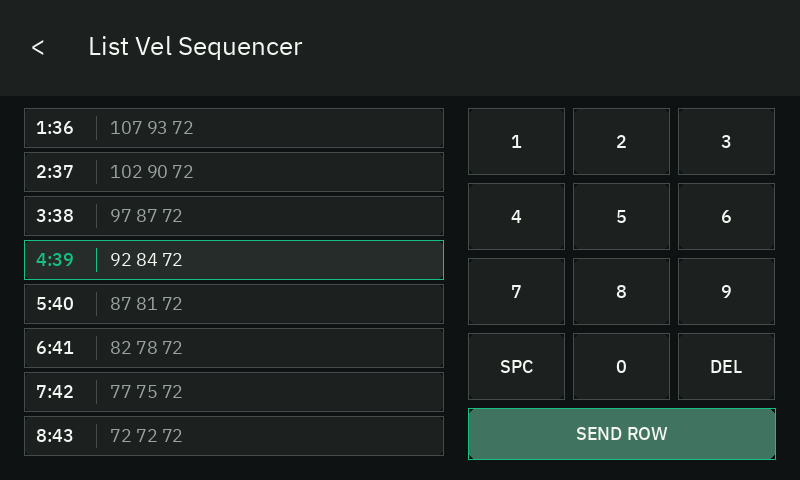
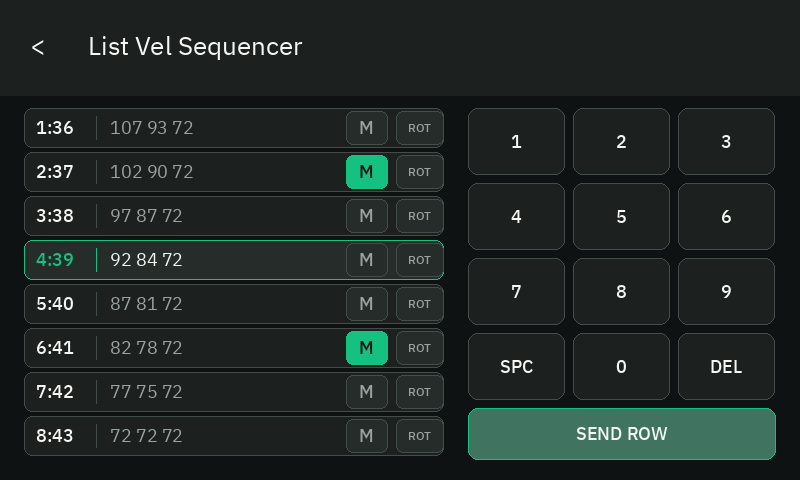
Add sequencer list rotation controls

diff --git a/tests/test_instance_surfaces.py b/tests/test_instance_surfaces.py
@@ -452,6 +452,30 @@ class InstanceSurfaceTests(unittest.TestCase):
         self.assertTrue(ui.apply_instance_state_update("7", steps_ack["path"], [0]))
         self.assertEqual(ui.state.surface_state["drafts"]["steps"], "1 1 01")
 
+    def test_list_sequencer_rotate_reads_current_list_then_moves_first_item_to_end(self):
+        ui = ShadowboxUI()
+        instance = _list_sequencer_instance()
+        ui.apply_runner_snapshot(_snapshot([instance]))
+        ui.state.ui_mode = "INSTANCE_MENU"
+        ui.state.instance_menu_cursor = 1
+        ui.handle_event(UIEvent("short_press"))
+        ui.pop_actions()
+        ui.state.surface_state["drafts"]["steps"] = "0 0 0"
+        ui.state.surface_state["dirty"]["steps"] = True
+
+        ui.handle_event(UIEvent("rotate_list_field", index=0))
+
+        read = next(action for action in ui.pop_actions() if action.kind == "send_osc")
+        self.assertEqual(read.path, "/rnbo/inst/7/messages/in/Steps")
+        self.assertEqual(read.value, [-999])
+        steps_ack = next(item for item in instance["state"] if item["name"] == "StepsAck")
+        self.assertTrue(ui.apply_instance_state_update("7", steps_ack["path"], [1, 0, 1]))
+        write = next(action for action in ui.pop_actions() if action.kind == "send_osc")
+        self.assertEqual(write.path, "/rnbo/inst/7/messages/in/Steps")
+        self.assertEqual(write.value, [0, 1, 1])
+        self.assertEqual(ui.state.surface_state["drafts"]["steps"], "0 1 1")
+        self.assertNotIn("steps", ui.state.surface_state["dirty"])
+
     def test_list_sequencer_surface_renders_seven_fields_and_twelve_keys(self):
         ui = ShadowboxUI()
         ui.apply_runner_snapshot(_snapshot([_list_sequencer_instance()]))
@@ -466,9 +490,12 @@ class InstanceSurfaceTests(unittest.TestCase):
         fields = [target for target in renderer.touch_layout.targets if target.kind == "list_field"]
         keys = [target for target in renderer.touch_layout.targets if target.kind == "list_key"]
         sends = [target for target in renderer.touch_layout.targets if target.kind == "list_send"]
+        rotates = [target for target in renderer.touch_layout.targets if target.kind == "list_rotate"]
         self.assertEqual(len(fields), 7)
         self.assertEqual(len(keys), 12)
         self.assertEqual(len(sends), 1)
+        self.assertEqual(len(rotates), 7)
+        self.assertTrue(all(target.label == "ROT" for target in rotates))
         self.assertEqual([target.label for target in fields], [
             "Stp",
             "Stp2",
@@ -538,6 +565,26 @@ class InstanceSurfaceTests(unittest.TestCase):
         self.assertEqual(write.path, "/rnbo/inst/7/messages/in/3row")
         self.assertEqual(write.value, [24, 48, 96])
 
+    def test_list_vel_sequencer_rotate_reads_and_sends_selected_row(self):
+        ui = ShadowboxUI()
+        instance = _list_vel_sequencer_instance()
+        ui.apply_runner_snapshot(_snapshot([instance]))
+        ui.state.ui_mode = "INSTANCE_MENU"
+        ui.state.instance_menu_cursor = 1
+        ui.handle_event(UIEvent("short_press"))
+        ui.pop_actions()
+
+        ui.handle_event(UIEvent("rotate_list_field", index=2))
+
+        read = next(action for action in ui.pop_actions() if action.kind == "send_osc")
+        self.assertEqual(read.path, "/rnbo/inst/7/messages/in/3row")
+        self.assertEqual(read.value, [-999])
+        row_ack = next(item for item in instance["state"] if item["name"] == "3rowAck")
+        self.assertTrue(ui.apply_instance_state_update("7", row_ack["path"], [24, 48, 96]))
+        write = next(action for action in ui.pop_actions() if action.kind == "send_osc")
+        self.assertEqual(write.path, "/rnbo/inst/7/messages/in/3row")
+        self.assertEqual(write.value, [48, 96, 24])
+
     def test_list_vel_sequencer_mute_button_toggles_row_param(self):
         ui = ShadowboxUI()
         ui.apply_runner_snapshot(_snapshot([_list_vel_sequencer_instance()]))
@@ -583,8 +630,10 @@ class InstanceSurfaceTests(unittest.TestCase):
         keys = [target for target in renderer.touch_layout.targets if target.kind == "list_key"]
         sends = [target for target in renderer.touch_layout.targets if target.kind == "list_send"]
         mutes = [target for target in renderer.touch_layout.targets if target.kind == "list_mute"]
+        rotates = [target for target in renderer.touch_layout.targets if target.kind == "list_rotate"]
         self.assertEqual(len(rows), 8)
         self.assertEqual(len(mutes), 8)
+        self.assertEqual(len(rotates), 8)
         self.assertEqual(len(keys), 12)
         self.assertEqual(len(sends), 1)
         self.assertEqual([target.label for target in rows], [
@@ -599,6 +648,7 @@ class InstanceSurfaceTests(unittest.TestCase):
         ])
         self.assertEqual(sends[0].label, "SEND ROW")
         self.assertTrue(all(target.label == "M" for target in mutes))
+        self.assertTrue(all(target.label == "ROT" for target in rotates))
         self.assertFalse(any(target.kind == "list_sign" for target in renderer.touch_layout.targets))
 
     def test_list_vel_sequencer_buttons_use_rounded_borders(self):

diff --git a/shadowbox/ui.py b/shadowbox/ui.py
@@ -865,6 +865,8 @@ class ShadowboxUI:
                         if active is not None:
                             for key in self._list_surface_keys():
                                 if active[1].state.get(f"{key}_ack") is item:
+                                    if self._complete_list_rotation(key, value):
+                                        break
                                     if not (isinstance(dirty, dict) and dirty.get(key)):
                                         self._list_surface_drafts()[key] = format_list_value(value)
                                     break
@@ -2953,6 +2955,8 @@ class ShadowboxUI:
             self._handle_list_sign()
         elif event.kind == "toggle_list_mute":
             self._handle_list_mute(event.index)
+        elif event.kind == "rotate_list_field":
+            self._handle_list_rotation(event.index)
         elif event.kind == "send_list_field":
             self._send_list_field()
         elif event.kind == "step_list_field":
@@ -3173,6 +3177,45 @@ class ShadowboxUI:
         self.state.surface_focus = row - 1
         self.queue_action(UIAction(kind="set_param", path=param.get("path"), value=value))
         self.request_render("list_mute")
+
+    def _handle_list_rotation(self, index: int | None) -> None:
+        if not self._list_surface_ready() or index is None:
+            return
+        keys = self._list_surface_keys()
+        focus = max(0, min(len(keys) - 1, int(index)))
+        key = keys[focus]
+        ack = self.surface_state_binding(f"{key}_ack")
+        input_item = self.surface_input_binding(key)
+        if ack is None or input_item is None:
+            self.set_status_message("LIST READ UNAVAILABLE", frames=48)
+            return
+        if self.state.surface_state.get("pending_rotation"):
+            self.set_status_message("LIST READ PENDING", frames=24)
+            return
+        self.state.surface_focus = focus
+        self.state.surface_state["pending_rotation"] = key
+        self.queue_action(UIAction(kind="send_osc", path=input_item.get("path"), value=[-999]))
+        self.set_status_message("READING LIST", frames=48)
+        self.request_render("list_rotate_read")
+
+    def _complete_list_rotation(self, key: str, value: Any) -> bool:
+        if self.state.surface_state.get("pending_rotation") != key:
+            return False
+        input_item = self.surface_input_binding(key)
+        self.state.surface_state.pop("pending_rotation", None)
+        if input_item is None:
+            self.set_status_message("LIST ROTATE FAILED", frames=48)
+            return False
+        values = list(value) if isinstance(value, (list, tuple)) else ([] if value is None else [value])
+        rotated = values[1:] + values[:1]
+        self._list_surface_drafts()[key] = format_list_value(rotated)
+        dirty = self.state.surface_state.get("dirty", {})
+        if isinstance(dirty, dict):
+            dirty.pop(key, None)
+        self.queue_action(UIAction(kind="send_osc", path=input_item.get("path"), value=rotated))
+        self.set_status_message("LIST ROTATED", frames=24)
+        self.request_render("list_rotate_send")
+        return True
 
     def _list_surface_ready(self) -> bool:
         return (

diff --git a/shadowbox/renderer.py b/shadowbox/renderer.py
@@ -3508,8 +3508,10 @@ class ShadowboxRenderer:
         fields_gap = 4
         field_h = max(38, (content_h - fields_gap * (len(keys) - 1)) // len(keys))
         label_col_w = 72
+        rotate_button_w = 48
         mute_button_w = 42 if mute_params is not None else 0
-        mute_gap = 8 if mute_params is not None else 0
+        field_action_gap = 8
+        field_actions_w = rotate_button_w + (mute_button_w + field_action_gap if mute_params is not None else 0)
         keypad_x = fields_x + fields_w + 24
         keypad_w = self.display.width - keypad_x - 24
 
@@ -3521,7 +3523,7 @@ class ShadowboxRenderer:
                 self._rounded_theme(fields_x, y, fields_w, field_h, 8, "accent" if selected else "line", False)
             else:
                 self.display.rect(fields_x, y, fields_w, field_h, True, selected)
-            field_target_w = fields_w - mute_button_w - mute_gap
+            field_target_w = fields_w - field_actions_w - field_action_gap
             self._record_touch_target(
                 "list_field",
                 fields_x,
@@ -3543,10 +3545,38 @@ class ShadowboxRenderer:
             preview = self._truncate_to_width(preview, fields_x + field_target_w - preview_x - 12, 2, "regular")
             self._text_theme(preview, preview_x, value_y, "text" if selected else "muted", 2, "regular")
 
+            rotate_x = fields_x + fields_w - rotate_button_w
+            rotate_y = y + max(2, (field_h - min(34, field_h - 4)) // 2)
+            rotate_h = min(34, field_h - 4)
+            if self.has_color:
+                self._rounded_theme(rotate_x, rotate_y, rotate_button_w, rotate_h, 7, "panel_alt", True)
+                self._rounded_theme(rotate_x, rotate_y, rotate_button_w, rotate_h, 7, "line", False)
+            else:
+                self.display.rect(rotate_x, rotate_y, rotate_button_w, rotate_h, True, False)
+            self._record_touch_target(
+                "list_rotate",
+                rotate_x,
+                y,
+                rotate_button_w,
+                field_h,
+                action_kind="rotate_list_field",
+                index=index,
+                label="ROT",
+            )
+            rotate_text_w, rotate_text_h = self._measure_text("ROT", 1, "medium")
+            self._text_theme(
+                "ROT",
+                rotate_x + max(0, (rotate_button_w - rotate_text_w) // 2),
+                rotate_y + max(0, (rotate_h - rotate_text_h) // 2),
+                "muted",
+                1,
+                "medium",
+            )
+
             if mute_params is not None:
                 mute_param = mute_params.get(key)
                 muted = mute_is_on(mute_param)
-                mute_x = fields_x + fields_w - mute_button_w
+                mute_x = rotate_x - field_action_gap - mute_button_w
                 mute_y = y + max(2, (field_h - min(34, field_h - 4)) // 2)
                 mute_h = min(34, field_h - 4)
                 if self.has_color:

diff --git a/docs/uispec.md b/docs/uispec.md
@@ -121,10 +121,10 @@ Rules:
 - Back, short press where not otherwise assigned, and long press return from an instance surface to that instance's menu
 - The Organ surface maps the canonical nine footages to the export's continuous `-96..0 dB` tonewheel parameters; top is `-96 dB`/off and bottom is `0 dB`/full-on
 - The ListSequencer surface binds its seven ordered list fields directly to OSC message inports: Steps, Secondary Steps, Primary Rotation, Secondary Rotation, Octave, Velocity, and Duration
-- ListSequencer renders those fields as single-line, full-height values prefixed by `Stp`, `Stp2`, `Rot`, `Rot2`, `Oct`, `Vel`, and `Dur`
+- ListSequencer renders those fields as single-line, full-height values prefixed by `Stp`, `Stp2`, `Rot`, `Rot2`, `Oct`, `Vel`, and `Dur`; each field has a `ROT` action that freshly reads the sequencer list, moves its first item to the end, and sends the complete rotated list back
 - ListSequencer uses a compact `1..9 / SPC 0 DEL` keypad, a contextual sign control for signed fields, and an explicit `SEND` action so incomplete multi-digit entries are never transmitted
 - ListSequencer hydrates fields through matching `<InportName>Ack` outports after sending the export's `-999` read request; ACK state is not represented as a parameter
-- The ListVelSequencer surface binds eight ordered velocity-list rows to `1row` through `8row`, requires the corresponding `1map` through `8map` pitch parameters and `1mute` through `8mute` mute parameters, shows each row's current pitch beside its row number, and provides a compact `M` button for muting each row
+- The ListVelSequencer surface binds eight ordered velocity-list rows to `1row` through `8row`, requires the corresponding `1map` through `8map` pitch parameters and `1mute` through `8mute` mute parameters, shows each row's current pitch beside its row number, and provides compact `M` and `ROT` buttons for muting or freshly reading and forward-rotating each row
 - ListVelSequencer uses the same compact keypad and ACK-backed `-999` hydration pattern as ListSequencer; `SEND ROW` transmits only the selected row as one atomic list and accepts MIDI velocity values from `0` through `127`
 - ListVelSequencer pitch maps remain ordinary parameters under `PARAMETERS`; the instance surface displays their live values for row context without synthesizing another pitch editor
 - The AnalogSequencer surface keeps its 16-column stage layout and adds compact `LOW` and `HIGH` MIDI-note rails in the footer. Those editor-only bounds default to MIDI 24 through 72, scale touch and encoder pitch edits across the selected interval, and clip existing stage values only when the user changes a boundary; they do not alter the RNBO parameter range or add snapshot state.
